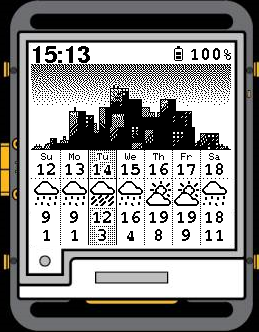
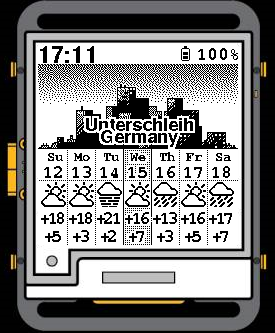
Best fit for temperature - reduced letter spacing and new screenshot

diff --git a/src/CityWeather.cpp b/src/CityWeather.cpp
@@ -2,6 +2,7 @@
 #include "Adafruit_GFX_ext.h"
 #include "Images.h"
 #include "FreeMonoBold7pt7b.h"
+#include <Fonts/FreeMono9pt7b.h>
 #include <Fonts/FreeMonoBold9pt7b.h>
 #include <Fonts/FreeSansBold12pt7b.h>
 #include <Fonts/FreeSansBold9pt7b.h>
@@ -104,7 +105,7 @@ void CityWeather::drawCity()
 void CityWeather::printTemperature(Adafruit_GFX &d, const String &text, int16_t centerX, int16_t y)
 {
   if (text.length() > 2) {
-    d.setFont(&FreeMonoBold7pt7b);
+    d.setFont(&FreeMonoBold9pt7b);
     y--;
   } else  {
     d.setFont(&FreeMonoBold9pt7b);
@@ -112,6 +113,39 @@ void CityWeather::printTemperature(Adafruit_GFX &d, const String &text, int16_t 
   }
 
   printCentered (display, text, centerX, y);
+}
+
+void CityWeather::printTightCentered(Adafruit_GFX &d, const char *s, int16_t cx, int16_t y, int8_t k, uint16_t color) {
+  auto f = (GFXfont*)&FreeMonoBold9pt7b;
+  d.setFont(f);
+  d.setTextColor(color);
+  uint8_t fi = f->first, la = f->last;
+  int16_t w = 0, n = 0;
+  for (const char *c = s; *c; c++)
+    if (*c >= fi && *c <= la) {
+      w += f->glyph[*c - fi].xAdvance;
+      n++;
+    }
+  if (n > 1) w += k * (n - 1);
+  int16_t x = cx - w / 2;
+  for (const char *c = s; *c; c++)
+    if (*c >= fi && *c <= la) {
+      d.setCursor(x, y);
+      d.print(*c);
+      x += f->glyph[*c - fi].xAdvance + k;
+    }
+}
+
+void CityWeather::printTightCenteredOutlined(Adafruit_GFX &disp, const char *s, int16_t x0, int16_t y, int8_t kerning) {
+  // 1) Обводка по всем 8 направлениям
+  for (int8_t dy = -2; dy <= 2; dy++) {
+    for (int8_t dx = -2; dx <= 2; dx++) {
+      if (dx == 0 && dy == 0) continue;
+      printTightCentered(disp, s, x0 + dx, y + dy, kerning, GxEPD_WHITE);
+    }
+  }
+  // 2) Сам текст чёрным (или любым другим цветом)
+  printTightCentered(disp, s, x0, y, kerning, GxEPD_BLACK);
 }
 
 void CityWeather::drawCalendar()
@@ -136,17 +170,9 @@ void CityWeather::drawCalendar()
     uint32_t today = uint32_t(tmNow.Year + 1970) * 10000 + uint32_t(tmNow.Month) * 100 + uint32_t(tmNow.Day);
     if (currentWeek[i].date == today)
     {
-      display.drawFastVLine (i*28 + 1, 104, 200-104, GxEPD_BLACK);
-      display.drawFastVLine (i*28 + 29, 104, 200-104, GxEPD_BLACK);
       fillRect(display, 1 + i*28, 105, 28, 200 - 105, GxEPD_BLACK, 2);
     }
 
-    // lines between days
-    if (i > 0)
-    {
-      drawLine(display, 1 + i*28, 95, 1 + i*28, 200);
-    }
-    
     display.setTextColor(GxEPD_BLACK);
 
     // weekday
@@ -163,9 +189,24 @@ void CityWeather::drawCalendar()
     display.drawBitmap(i*28 + 3, 137, weatherIcon, WEATHER_ICON_WIDTH, WEATHER_ICON_HEIGHT, GxEPD_BLACK, GxEPD_WHITE);
 
     // tMax & tMin
-    printTemperature (display, (String)currentWeek[i].tempMax, (i*28) + 14, 178);
-    printTemperature (display, (String)currentWeek[i].tempMin, (i*28) + 14, 196);
+    String tMax = currentWeek[i].tempMax > 0 ? "+" + (String)currentWeek[i].tempMax : (String)currentWeek[i].tempMax;
+    String tMin = currentWeek[i].tempMin > 0 ? "+" + (String)currentWeek[i].tempMin : (String)currentWeek[i].tempMin;
+    printTightCenteredOutlined(display, tMax.c_str(), (i*28) + 14, 178, -3);  // shift = -2 пикселя
+    printTightCenteredOutlined(display, tMin.c_str(), (i*28) + 14, 196, -3);
+
+    // lines between days
+    if (i > 0)
+    {
+      drawLine(display, 1 + i*28, 95, 1 + i*28, 200);
+    }
+
+    if (currentWeek[i].date == today)
+    {
+      display.drawFastVLine (i*28 + 1, 104, 200-104, GxEPD_BLACK);
+      display.drawFastVLine (i*28 + 29, 104, 200-104, GxEPD_BLACK);
+    }
   }
+  
 
   drawLine(display, 1, 135, 199, 135, GxEPD_BLACK, 2); // day bottom
 }

diff --git a/src/CityWeather.h b/src/CityWeather.h
@@ -9,6 +9,8 @@ class CityWeather : public Watchy
         void drawWatchFace();
         void changeSkyDithering(float d);
         void printTemperature(Adafruit_GFX &d, const String &text, int16_t centerX, int16_t y);
+        void printTightCentered(Adafruit_GFX &d, const char *s, int16_t cx, int16_t y, int8_t k, uint16_t color);
+        void printTightCenteredOutlined(Adafruit_GFX &disp, const char *s, int16_t x0, int16_t y, int8_t kerning);
 
         void drawStatusBar();
         void drawCity();
